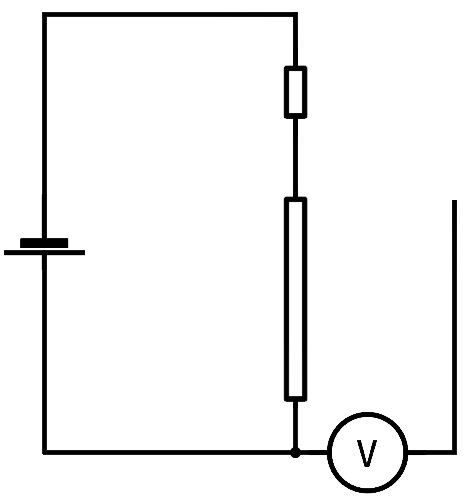
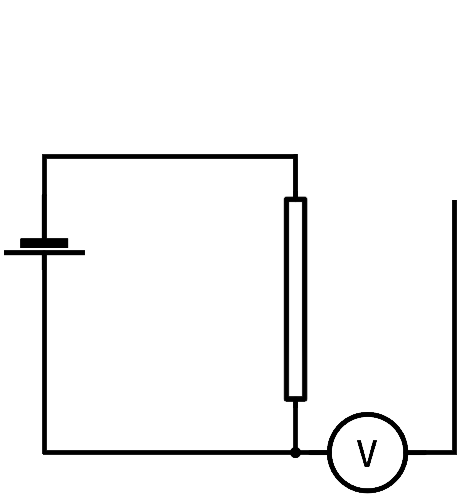
Change circuit so the variable resistor works correctly

Changed region(s): [[0.0892, 0.0, 0.6539, 0.332]]

diff --git a/script.js b/script.js
@@ -4,16 +4,16 @@ let r2Ele = document.getElementById("r2-value");
 let loadingEle = document.getElementById("loading-overlay");
 let workingEle = document.getElementById("working");
 let emfInput = document.getElementById("emf-input");
-let r1Input = document.getElementById("r-input");
-let r2Input = document.getElementById("r2-input");
+let maxInput = document.getElementById("rmax-input");
+let minInput = document.getElementById("rmin-input");
 
-const r2max = 50;
-const r2min = 0;
+var rmax = Number(maxInput.value);
+var rmin = Number(minInput.value);
 
-const r2range = r2max-r2min;
+var rrange = rmax-rmin;
 
-var r1 = Number(r1Input.value);
-var r2 = Number(r2Input.value);
+var r1 = Number(rmax);
+var r2 = Number(rmin);
 var emf = Number(emfInput.value);
 
 updateMaths(true)
@@ -22,39 +22,41 @@ slider.oninput = (ev) => {
 	arrowEle.style.bottom = String(91 + Number(sliderEle.value)) + "px";
 
 	// calc r2
-	r2 = Math.round(r2min + r2range*(slider.value/192)*100)/100;
+	r2 = Math.round(rmin + rrange*(Number(slider.value)/192)*100)/100;
+	r1 = Math.round((rmax - r2)*100)/100
+	//r2Input.value = r2
+	updateMaths()
+	console.log(r1, r2)
+}
 
-	r2Input.value = r2
+maxInput.oninput = (ev) => {
+	rmax = Number(maxInput.value);
+	rrange = rmax-rmin;
+	r2 = Math.round(rmin + rrange*(Number(slider.value)/192)*100)/100;
+	r1 = Math.round((rmax - r2)*100)/100
+
 	updateMaths()
 }
 
-r2Input.oninput = (ev) => {
-	
-	// calc r2
-	r2 = r2Input.value;
-	
-	slider.value = (r2 - r2min)/r2range*192
+minInput.oninput = (ev) => {
+	rmin = Number(minInput.value);
+	rrange = rmax-rmin;
+	r2 = Math.round(rmin + rrange*(Number(slider.value)/192)*100)/100;
+	r1 = Math.round((rmax - r2)*100)/100
 
-	arrowEle.style.bottom = String(91 + Number(sliderEle.value)) + "px";
 	updateMaths()
 }
 
 
 emfInput.oninput = (ev) => {
-	console.log(emfInput.value)
+	//console.log(emfInput.value)
 	emf = Number(emfInput.value);
 	
 	updateMaths()
 }
 
-r1Input.oninput = (ev) => {
-	console.log(r1Input.value)
-	r1 = Number(r1Input.value);
-	
-	updateMaths()
-}
-
 function updateMaths(noupdate = null) {
+	
 	// r2Ele.innerHTML = `\\(R_2 = ${r2} Ω\\)`;
 	
 	workingEle.innerHTML = `<div>\\(V_{out} = {${r2} \\over {${r1}+${r2}}} \\times ${emf}\\)</div>

diff --git a/index.html b/index.html
@@ -27,14 +27,14 @@
 				</div>
 				
 				<div id="r-cont">
-					<label for="r-input">\(R_1 =\)</label>
-					<input type="number" id="r-input" value="10">
+					<label for="r-input">\(R_{min} =\)</label>
+					<input type="number" class="rin" id="rmin-input" value="0">
 					Ω
 				</div>
 		
 				<div id="r2-value">
-					<label for="r-input">\(R_2 =\)</label>
-					<input type="number" id="r2-input" value="0">
+					<label for="r-input">\(R_{max} =\)</label>
+					<input type="number" class="rin" id="rmax-input" value="50">
 					Ω
 				</div>
 			</div>
@@ -47,10 +47,13 @@
 					<div>
 						\({V_{in}} = {\displaystyle {\mathcal {E}}}\)
 					</div>
+					<div>
+						\(R_1 = R_{max} - {R_2}\)
+					</div>
 				</div>
 				
 				<div id="working">
-					<div>\(V_{out} = {{0} \over {10+0}} \times {12}\)</div>
+					<div>\(V_{out} = {{0} \over {50+0}} \times {12}\)</div>
 					<div>\(V_{out} = {0} \times {12}\)</div>
 					<div>\(V_{out} = {0}V\)</div>
 

diff --git a/style.css b/style.css
@@ -55,7 +55,7 @@ main {
 	width: 3.5em;
 }
 
-#r-input, #r2-input {
+.rin {
 	width: 4.5em;
 }
 
@@ -71,13 +71,13 @@ main {
 
 #r-cont {
 	position: absolute;
-	top: 82px;
+	top: 374px;
 	right: 230px;
 }
 
 #r2-value {
 	position: absolute;
-	top: 282px;
+	top: 200px;
 	right: 230px;
 }
 
